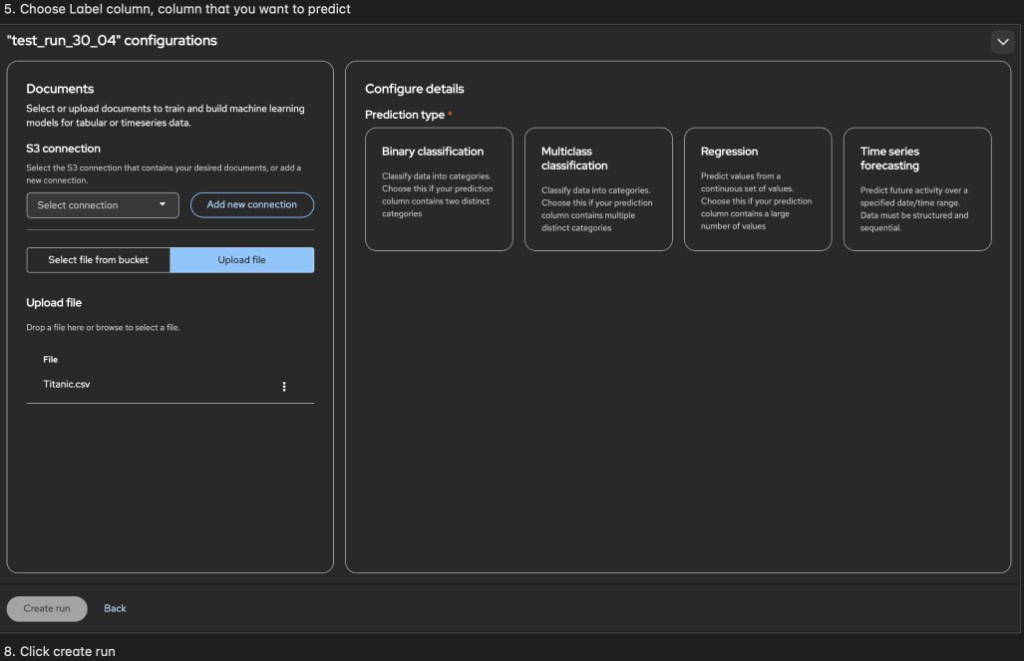
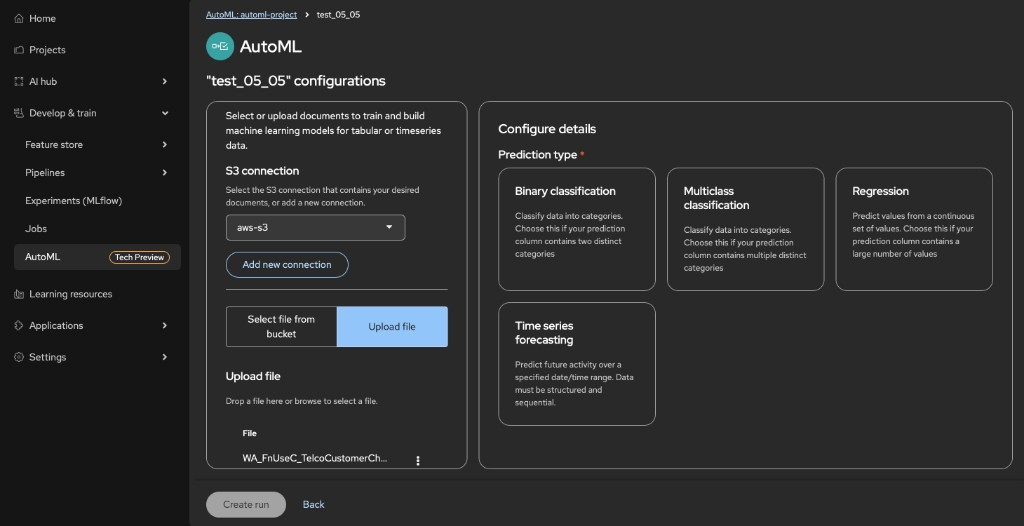
updates pngs

diff --git a/examples/automl/churn_prediction_tutorial.md b/examples/automl/churn_prediction_tutorial.md
@@ -125,10 +125,6 @@ If you run the [optional pipeline flow](#optional-run-automl-via-pipeline-defini
 
 When you follow [Run AutoML with the AutoML UI](#run-automl-with-the-automl-ui), the **leaderboard** (ranked models and metrics) **appears automatically** once your **optimization run** completes successfully—the UI updates when the run reaches **SUCCEEDED**. Stay in **Develop & train** → **AutoML**, open your completed run, and review the leaderboard there; you do not need **Pipelines** → **Runs** on this path.
 
-If you train using a [pipeline definition](#optional-run-automl-via-pipeline-definition) instead, open the leaderboard from the completed pipeline run as described in [View the leaderboard from the pipeline run](#view-the-leaderboard-from-the-pipeline-run).
-
-![Leaderboard from the AutoML UI after the optimization run completes](images/automl_ui_leaderboard_after_run.png)
-
 <a id="predictor-notebook"></a>
 
 ## 📓 Predictor Notebook